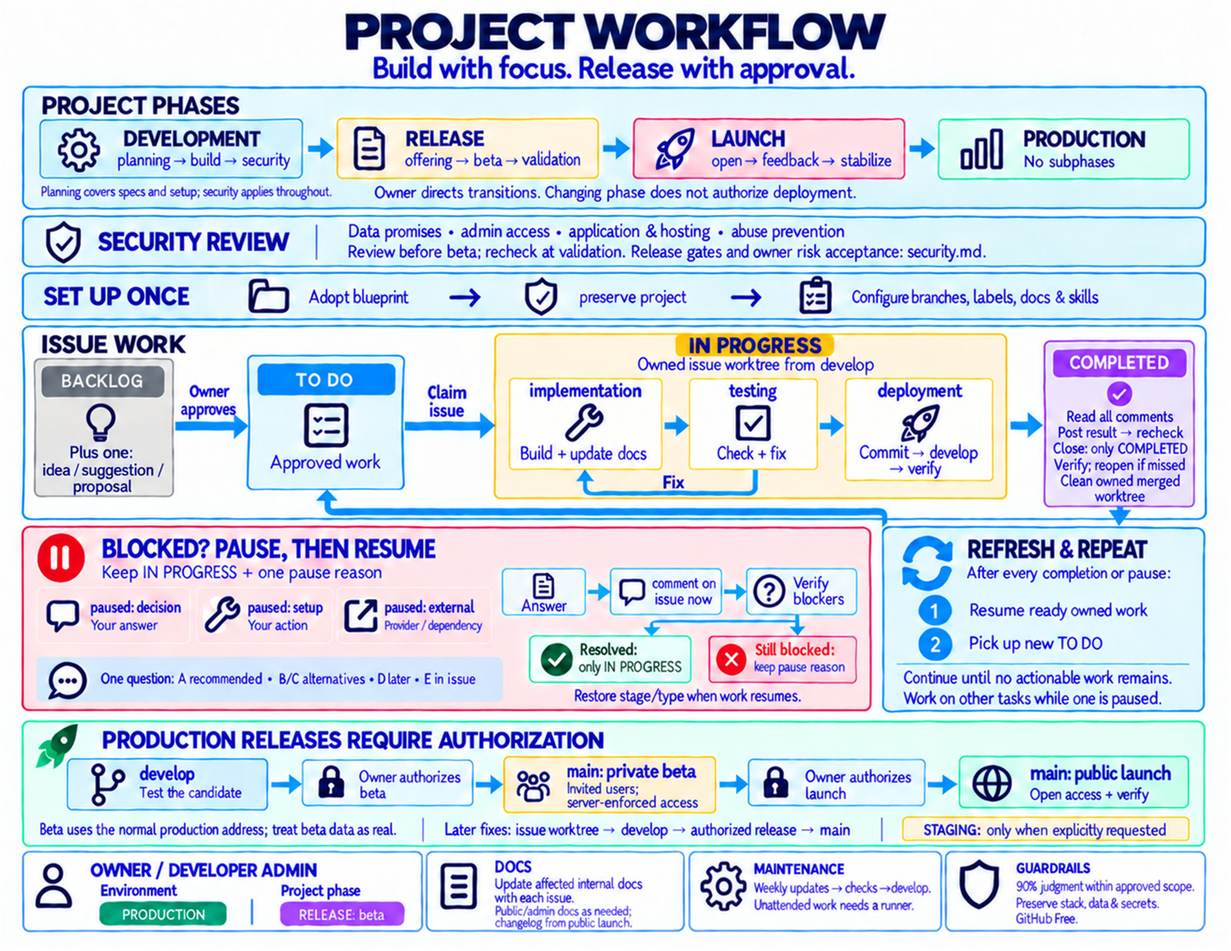
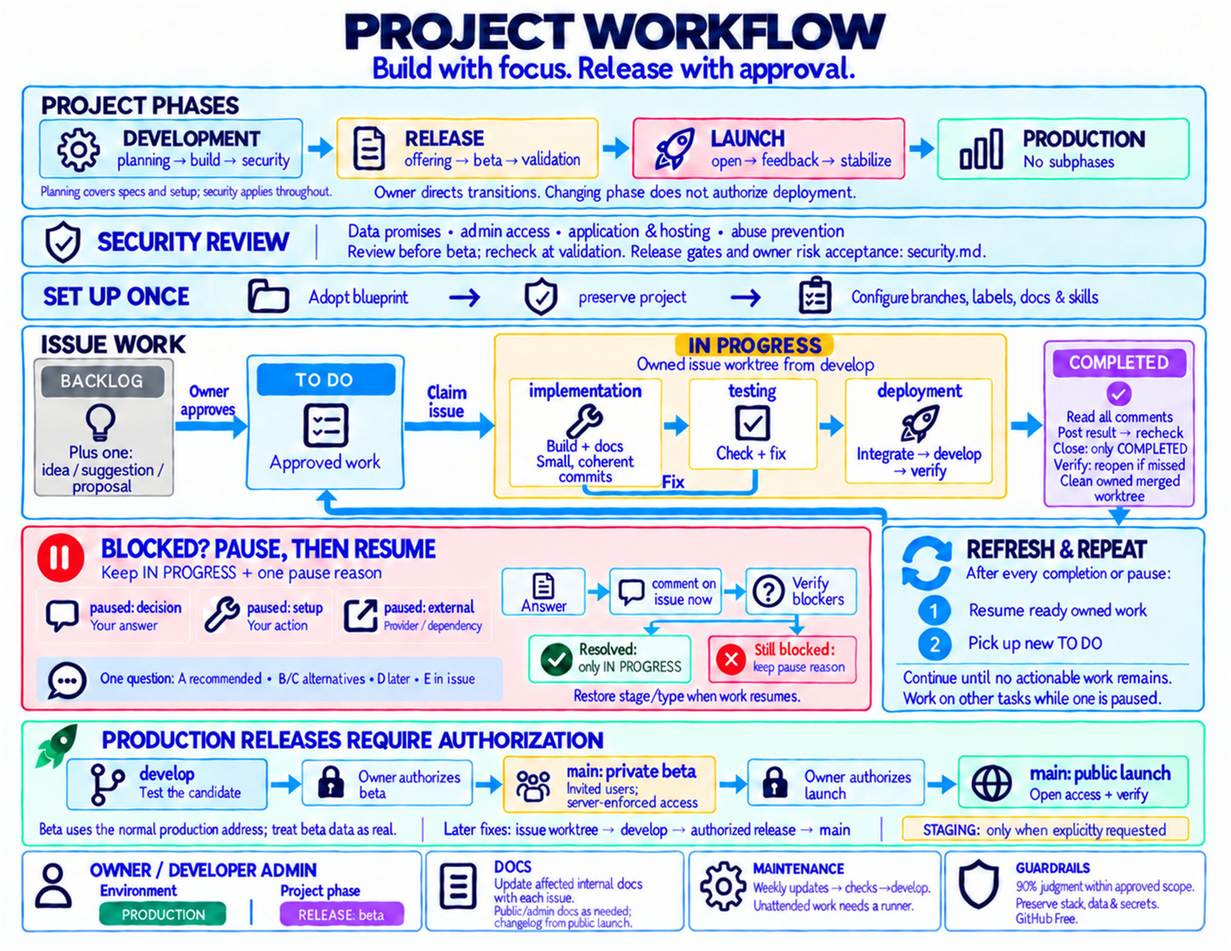
Clarify parallel isolation and coherent commits (#16)

diff --git a/template/git-workflow.md b/template/git-workflow.md
@@ -81,13 +81,19 @@ git fetch origin
 git worktree add ../worktrees/issue-<number> -b issue-<number> origin/develop
 ```
 
-An existing isolated checkout/sandbox dedicated to this issue on its own branch satisfies the requirement; do not create redundant worktrees. Record the branch and location, verify ownership, and do all edits/tests/commits there. Never overwrite, stash, reset, or delete another agent's work. Isolate conflicting ports, databases, and services too. Dependabot's isolated PR branches are covered by [updates.md](updates.md); agent repairs still require owned isolation.
+An existing isolated checkout/sandbox dedicated to this issue on its own branch satisfies the requirement; do not create redundant worktrees. Record the branch and location, verify ownership, and do all edits/tests/commits there. Never overwrite, stash, reset, or delete another agent's work. Dependabot's isolated PR branches are covered by [updates.md](updates.md); agent repairs still require owned isolation.
+
+Before parallel work, record task boundaries, dependencies, and ownership in the issues. Coordinate overlapping changes; give shared schemas/migrations, interfaces, dependency manifests, and lockfiles one owner at a time. Other agents continue independent work; record handoffs before another agent edits the shared area.
+
+Record and verify each active worktree's ports and test-resource identifiers. Isolate conflicting databases, storage, and services. With Docker, use a unique Compose project name and verify that explicit names, external volumes, bind mounts, and external services do not reconnect agents to shared mutable resources. If isolation is unavailable, serialize conflicting operations. Keep any setup scripts specific to the owning project.
+
+Make small, coherent commits throughout the issue at working checkpoints: one focused behavior, fix, or preparatory refactor, with its relevant tests and docs. Run checks appropriate to each step and reference the issue in each commit. Avoid unrelated cleanup or accumulating an entire large feature into one commit; keep inseparable changes together, without arbitrary line-count or time quotas. Checkpoint commits stay in the owned issue checkout until the completed candidate passes delivery checks; committing does not authorize integration or deployment.
 
 Before completing:
 
 1. Refresh the body and every comment, including edits. Reconcile each request, correction, and question with the latest user decisions. Implement/verify required work and answer questions; deferring required work needs explicit user instruction and a linked follow-up. Never silently omit or split required work merely to close the issue.
 2. Verify acceptance criteria and changed behavior with relevant tests, build/lint/type checks; report skipped or failed checks honestly. Update affected docs under [documentation.md](documentation.md), or explain why none are needed.
-3. Review staged scope/secrets, commit with the issue reference, fetch current `develop`, and combine it with the issue branch in the owned checkout. Resolve conflicts and verify required checks pass on that exact candidate.
+3. Review staged scope/secrets, commit any remaining changes with the issue reference, fetch current `develop`, and combine it with the issue branch in the owned checkout. Resolve conflicts and verify required checks pass on that exact candidate.
 4. Push the tested candidate directly to `develop` with a normal fast-forward push, or use the requested/required PR path. If `develop` advances or the push is rejected, refresh and revalidate before retrying. Never force-push shared history, bypass protections, or integrate an untested replacement. Confirm remote integration, required delivery checks, and current documentation.
 5. Post a brief result comment **on the issue**, covering changes, request/question outcomes, verification, docs, delivery, and commit links (PR links when used). Group related outcomes and link relevant comments; chat updates alone do not count. Read back the saved comment; a failed or unverified write blocks closure.
 6. Immediately refresh the body and all comments again. Review any unaddressed new/edited content, complete affected work/checks, and update the result before repeating this check. Only then set Project status `COMPLETED`, replace labels with only `COMPLETED`, and close as completed. Automatic closing keywords/actions must not bypass this sequence.

diff --git a/README.md b/README.md
@@ -26,7 +26,7 @@ Paused issues stay `IN PROGRESS` with one pause reason. Comment when a blocker i
 
 Before closing, the agent checks every comment, addresses your requests/questions, and posts a brief result on the issue. New or edited comments trigger another review; missed unresolved input found just after closure reopens the issue. Finished issues close with only purple `COMPLETED` under the [completion checks](template/git-workflow.md#isolation-branches-and-delivery).
 
-Routine work uses [verified direct integration](template/git-workflow.md#isolation-branches-and-delivery), without mandatory pull requests or extra reviewers. Agents handle eligible Dependabot update PRs without per-version owner review; unattended work requires a verified runner. Existing repository protections still apply.
+Routine work uses [verified direct integration](template/git-workflow.md#isolation-branches-and-delivery), without mandatory pull requests or extra reviewers. The same guide covers parallel ownership, service isolation, and small, coherent commits before final delivery. Agents handle eligible Dependabot update PRs without per-version owner review; unattended work requires a verified runner. Existing repository protections still apply.
 
 Questions and reviews do not start unrelated implementation. The 90% confidence guideline is judgment, not a measured probability.
 
